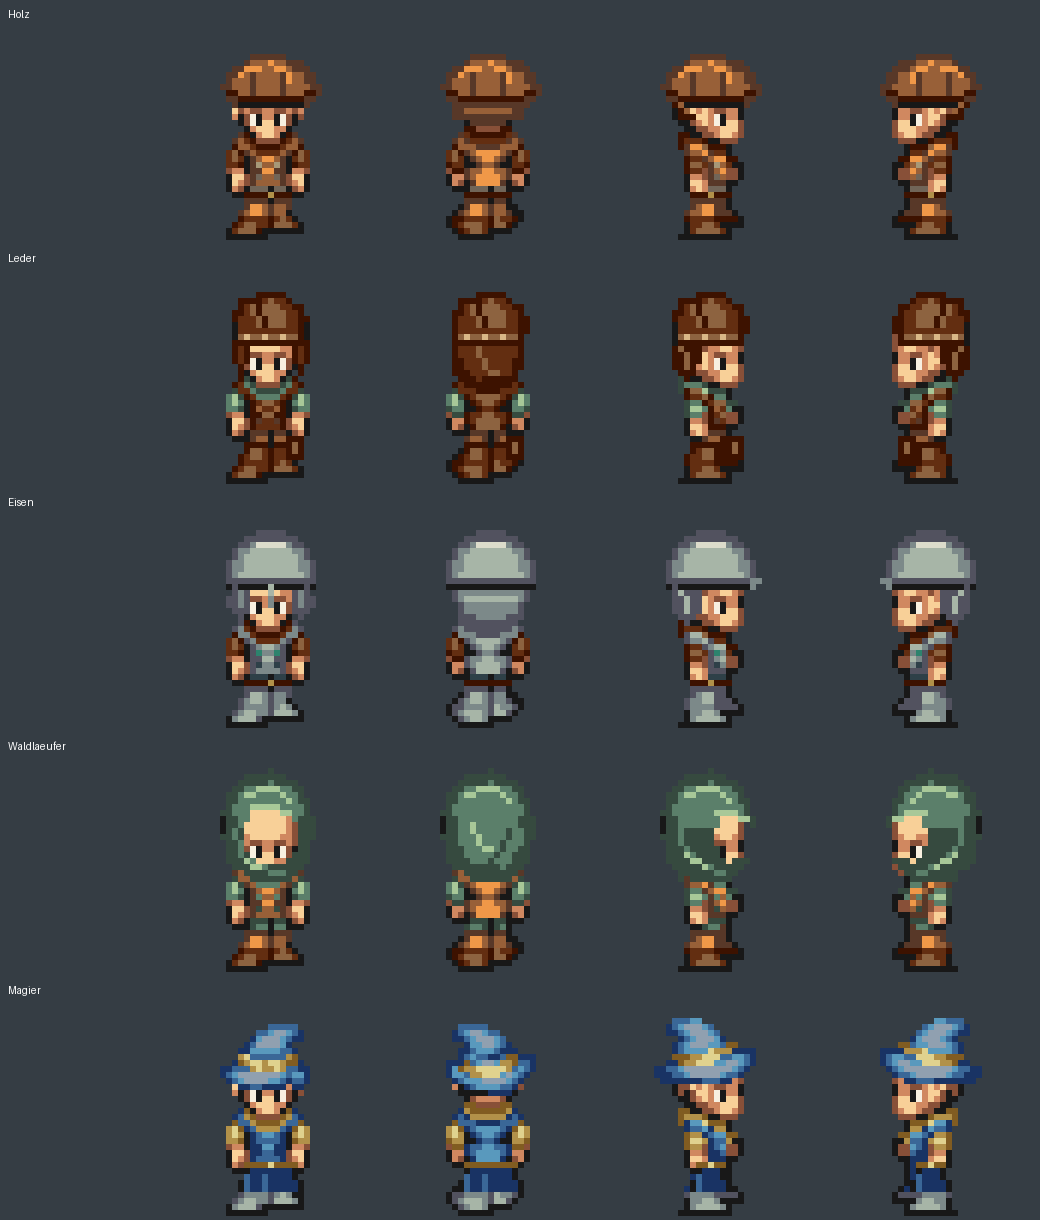
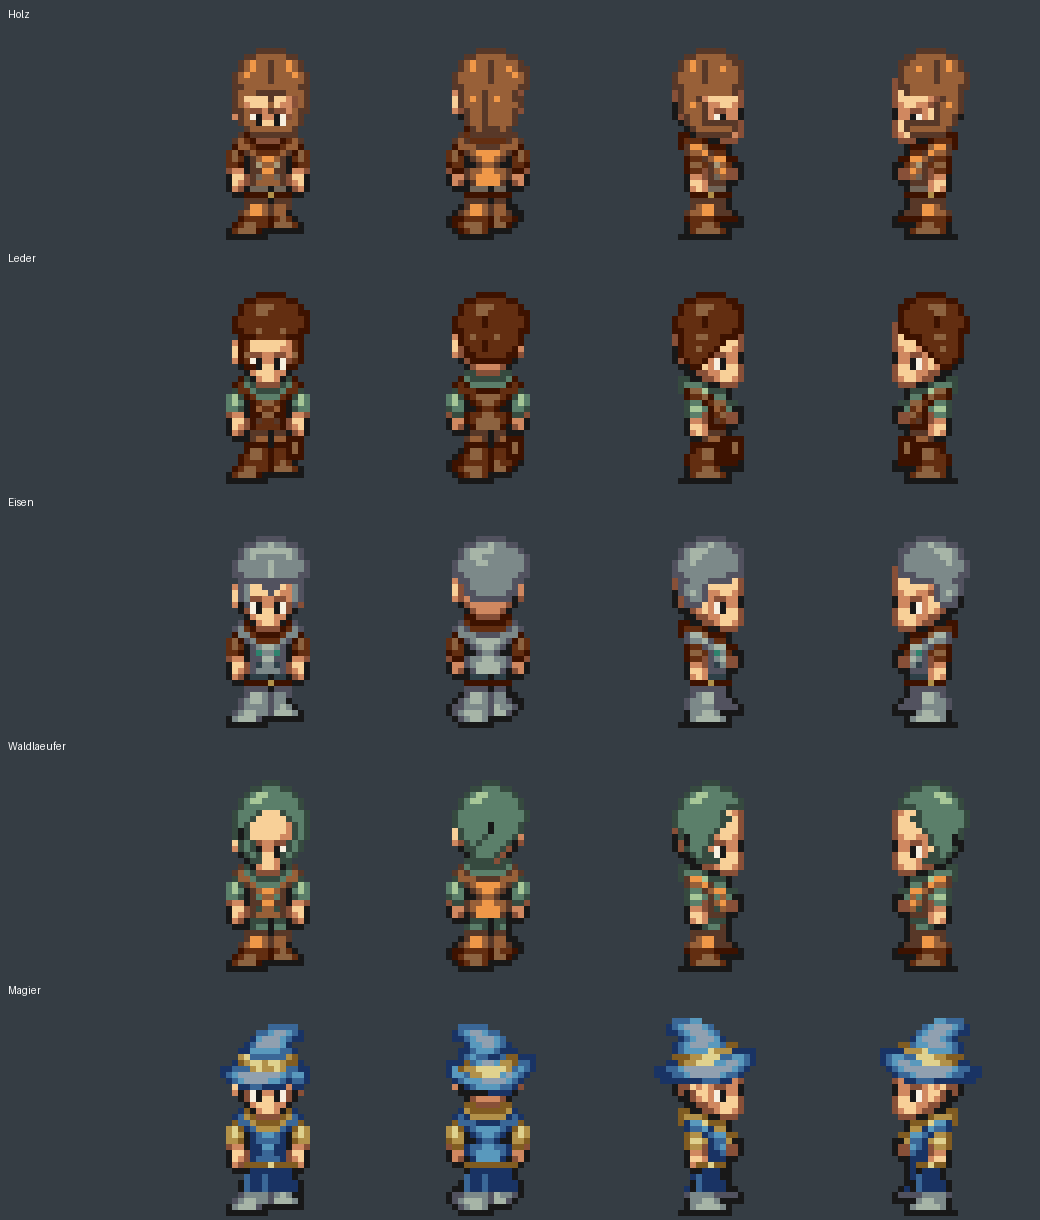
Redraw compact native knight helmets and cloth hood while preserving mage hat

diff --git a/scripts/native_headgear.py b/scripts/native_headgear.py
@@ -81,76 +81,48 @@ def native_form(name,cap,facing):
     if out.getpixel((x,yy))[3]:out.putpixel((x,yy),color)
  return out
 
+# Hand-placed native pixels. Every character below is one production pixel;
+# blanks expose the underlying face. Front, back and profile have separate forms.
+# Crown and light-cluster steps follow the original pfht's 14px head scale.
+FORMS={
+ 'irHl':[
+  ['....sssss....','..ssmmhmmss..','.smhhhhhhmms.','.smhmmmmmhms.','smmmmmhmmmmms','smmmmmhmmmmms','ssmmmmhmmmmss','.sssssssssss.','.sm..sss..ms.','.sm...s...ms.','.sm.......ms.','..s.......s..'],
+  ['....sssss....','..ssmmhmmss..','.smhhhhmmmms.','.smhhmmmmmmms','smmmhhmmmmmms','smmmmmmmmmmms','ssmmmmmmmmmss','.ssmmmmmmmss.','..smmmmmmms..','..ssmmmmmss..','...sssssss...'],
+  ['....sssss....','..ssmmhmmss..','.smhhhmmmmss.','.smhhmmmmmms.','smmhmmmmmmms.','smmmmmmmmmms.','ssmmmmmmmsss.','.ssmmmssss...','.smmms.......','.smhms.......','..smms.......','..sss........']
+ ],
+ 'wdHl':[
+  ['....sssss....','..ssmmmmmss..','.smhmmsmmhms.','.smhmmsmmhms.','smhmmmsmmmhms','smmmmmsmmmmms','ssmmmmmmmmmss','smmmsssssmmms','sm....s....ms','sm....m....ms','ssm...s...mss','.sm.......ms.','.smm.....mms.','..smmmmmmms..','...sssssss...'],
+  ['....sssss....','..ssmmmmmss..','.smhmmsmmmms.','.smhmmsmmhmss','smmmmmsmmmhms','smmmmmsmmmmms','ssmmmmmmmmmss','.smmmsmmmms..','.smhmsmhmmss.','.smmmsmmmmms.','..smmsmmmms..','..smmsmmmms..','..smmsmmmms..','...smsssms...','...sssssss...'],
+  ['....sssss....','..ssmmmmmss..','.smhmsmmmmss.','.smhmsmmhmms.','smmmmsmmmmms.','smmmmsmmmmms.','ssmmmmmmmmss.','.smmmmmmmms..','.smms........','.smhms.......','.smmms.......','..smms.......','..smmssssss..','...smmmmmms..','....ssssss...']
+ ],
+ 'leHl':[
+  ['....sssss....','..ssmmmmmss..','.smmhhhmmmms.','.smmhhmmmmmss','smmmmmmmmmmms','smmmmmmmmmmms','ssmmhmmmhmmss','.sssmmmmmsss.','.sm.......ms.','.sm.......ms.','.sh.......hs.','.sm.......ms.','..ss.....ss..'],
+  ['....sssss....','..ssmmmmmss..','.smmhhhmmmms.','.smmhhmmmmmss','smmmmsmmmmmms','smmmmsmmmmmms','ssmmmmmmmmmss','.smhmmmhmmms.','.smmmsmmmmms.','..smmsmmmms..','..ssmmmmmss..','...sssssss...'],
+  ['....sssss....','..ssmmmmmss..','.smmhhhmmmss.','.smmhhmmmmms.','smmmmsmmmmms.','smmmmsmmmmms.','ssmmmmmmmmss.','.smmhhmmsss..','.smmmmmms....','.smmhmms.....','.smmmms......','..smms.......','...ss........']
+ ],
+ 'hood':[
+  ['.....sss.....','...ssmmmss...','..smhhmmmms..','.smhhmmmmmms.','.smmmmmmmmms.','smmms...smmms','smms.....smms','sms.......sms','sms.......sms','sms.......sms','.sms.....sms.','.sms.....sms.','..sms...sms..','...ss...ss...'],
+  ['.....sss.....','...ssmmmss...','..smhhmmmms..','.smhhmmmmmms.','.smmmmmmmmms.','smmmmmmmmmmms','smmmmmmmmmmms','smmmmmmmmmms.','.smmmmsmmmms.','.smmmsmmmms..','..smsmmmms...','..ssmmmms....','...smmms.....','....sss......'],
+  ['.....sss.....','...ssmmmss...','..smhhmmmms..','.smhhmmmmmms.','.smmmmmmmsss.','smmmmmmms....','smmmmmmmss...','smmmmmmms....','.smmmmms.....','.smmmms......','..smmms......','..smms.......','...smss......','....ssss.....']
+ ]}
+
 def tailored_form(name,cap,facing):
- box=cap.getbbox();cx=round((box[0]+box[2]-1)/2);top=box[1]
- out=Image.new('RGBA',(64,64));d=ImageDraw.Draw(out)
- def p(pts,col):d.polygon([(cx+x,top+y) for x,y in pts],fill=col)
- def l(pts,col):d.line([(cx+x,top+y) for x,y in pts],fill=col)
- profile=facing in (2,3)
- if name=='irHl':
-  # A rounded bowl: short one-pixel steps instead of the former pointed ridge.
-  p([(-7,4),(-6,1),(-4,-1),(-2,-2),(2,-2),(4,-1),(6,1),(7,4),(7,7),(-7,7)],STEEL[0])
-  p([(-6,4),(-5,1),(-3,0),(3,0),(5,1),(6,4),(6,5),(-6,5)],STEEL[1])
-  p([(-4,2),(-2,0),(2,0),(4,2),(4,4),(-4,4)],STEEL[2])
-  l([(-2,0),(2,0)],STEEL[3]);l([(-5,5),(5,5)],STEEL[2])
-  l([(-7,7),(7,7)],O)
-  if facing==1:
-   p([(-6,8),(6,8),(5,12),(3,14),(-3,14),(-5,12)],STEEL[0])
-   p([(-5,8),(5,8),(4,11),(2,12),(-2,12),(-4,11)],STEEL[1]);l([(-4,9),(4,9)],STEEL[2])
-  elif profile:
-   p([(-6,7),(-2,8),(-2,11),(-4,13),(-6,11)],STEEL[0]);l([(-5,8),(-4,9),(-4,11)],STEEL[2])
-   l([(6,5),(8,6),(7,7)],STEEL[1])
-  else:
-   for sign in (-1,1):
-    p([(sign*6,7),(sign*4,8),(sign*4,11),(sign*5,12),(sign*7,10)],STEEL[0])
-    l([(sign*5,8),(sign*5,10)],STEEL[1])
-   l([(0,7),(0,10)],STEEL[1]);l([(0,7),(0,8)],STEEL[2])
-   for y in range(64):
-    for off in range(1,10):out.putpixel((cx+off,y),out.getpixel((cx-off,y)))
- elif name=='wdHl':
-  # Shallow segmented shell, with curved bindings; no leather-coif silhouette.
-  p([(-8,5),(-6,2),(-3,0),(2,0),(5,1),(7,3),(8,6),(6,8),(-6,8)],WOOD[0])
-  p([(-6,4),(-3,1),(2,1),(5,3),(6,5),(5,6),(-6,6)],WOOD[1])
-  l([(-5,3),(-3,2),(-2,2)],WOOD[2]);l([(0,1),(2,2),(3,4)],WOOD[2])
-  l([(-3,3),(-3,6)],WOOD[0]);l([(2,3),(2,6)],WOOD[0])
-  l([(-7,6),(-4,7),(4,7),(7,6)],LEATHER[0]);l([(-5,8),(5,8)],O)
-  if facing==1:
-   p([(-6,8),(6,8),(5,10),(2,11),(-3,11),(-6,10)],WOOD[0]);l([(-4,9),(3,9)],WOOD[1])
-  elif profile:
-   l([(-6,8),(-5,10),(-3,10)],LEATHER[0]);l([(-5,8),(-4,9)],WOOD[1])
- elif name=='leHl':
-  # A soft fitted cap with sewn panels and ear guards, not a recolored wood shell.
-  p([(-6,3),(-5,0),(-2,-1),(2,-1),(5,1),(6,4),(5,7),(-6,7)],LEATHER[0])
-  p([(-5,3),(-4,1),(-2,0),(2,0),(4,2),(4,5),(-5,5)],LEATHER[1])
-  p([(-3,1),(0,0),(2,2),(2,4),(-2,4)],LEATHER[2])
-  l([(-2,0),(-2,2),(-1,4)],LEATHER[0]);l([(-5,6),(4,6)],LEATHER[2])
-  for x in (-4,-1,2):l([(x,6),(x,6)],LEATHER[3])
-  if facing==1:
-   p([(-6,7),(5,7),(5,11),(3,14),(-3,14),(-6,12)],LEATHER[0])
-   p([(-5,8),(4,8),(3,12),(-2,13),(-4,11)],LEATHER[1]);l([(-2,8),(-1,11),(1,12)],LEATHER[2])
-  elif profile:
-   p([(-6,6),(-2,7),(-2,10),(-4,13),(-6,11)],LEATHER[0]);l([(-5,8),(-4,10),(-4,11)],LEATHER[2]);l([(-6,4),(-6,7)],O)
-  else:
-   for sign in (-1,1):
-    p([(sign*6,6),(sign*4,7),(sign*4,10),(sign*5,12),(sign*6,10)],LEATHER[0]);l([(sign*5,8),(sign*5,10)],LEATHER[1])
-   l([(-6,4),(-6,6)],O);l([(6,4),(6,6)],O)
- elif name=='hood':
-  # Cloth overhang with an open face and a loose rear fold.
-  p([(-8,5),(-7,1),(-4,-2),(0,-3),(4,-1),(6,2),(7,6),(6,12),(3,15),(-3,15),(-7,12)],GREEN[0])
-  p([(-6,3),(-4,0),(0,-1),(3,0),(5,3),(4,6),(-5,6)],GREEN[1])
-  l([(-4,1),(-1,0),(1,0),(3,2)],GREEN[2]);l([(-8,5),(-8,7)],O)
-  if facing==1:
-   p([(-5,5),(4,4),(5,9),(2,13),(-3,12),(-5,9)],GREEN[1]);l([(-3,6),(-2,9),(1,11)],GREEN[2]);l([(3,7),(2,10),(0,12)],GREEN[0])
-  elif profile:
-   p([(2,4),(6,5),(7,7),(6,11),(3,12),(1,9)],(0,0,0,0))
-   l([(1,4),(4,4),(6,5)],GREEN[2]);l([(-5,5),(-5,9),(-2,12),(2,14)],GREEN[1]);l([(-4,11),(-1,13)],GREEN[2])
-  else:
-   p([(-3,4),(2,4),(4,6),(4,10),(2,12),(-2,12),(-4,10),(-4,7)],(0,0,0,0))
-   l([(-3,3),(1,3),(3,4)],GREEN[2]);l([(-6,7),(-5,11),(-2,13),(2,14)],GREEN[1]);l([(-4,12),(-2,13)],GREEN[2])
- if facing==3:
-  mirrored=Image.new('RGBA',(64,64))
+ box=cap.getbbox();cx=round((box[0]+box[2]-1)/2);top=box[1]-1
+ palette={'irHl':{'s':STEEL[0],'m':STEEL[1],'h':STEEL[2]},
+          'wdHl':{'s':WOOD[0],'m':WOOD[1],'h':WOOD[2]},
+          'leHl':{'s':LEATHER[0],'m':LEATHER[1],'h':LEATHER[2]},
+          'hood':{'s':GREEN[0],'m':GREEN[1],'h':GREEN[2]}}[name]
+ out=Image.new('RGBA',(64,64));rows=FORMS[name][min(facing,2)]
+ for y,row in enumerate(rows):
+  assert len(row)==13,(name,facing,y,len(row))
+  for x,key in enumerate(row):
+   if key!='.':out.putpixel((cx+(6-x if facing==3 else x-6),top+y),palette[key])
+ # Keep the deepest recesses dark, not a heavy enclosing black outline.
+ if name=='hood':
+  for x,y in ([(0,7),(0,8)] if facing==1 else [(-5,8),(-5,9)] if facing==0 else [(-4,9),(-4,10)]):
+   xx=cx+(-x if facing==3 else x)
+   if out.getpixel((xx,top+y))[3]:out.putpixel((xx,top+y),O)
+ if name=='irHl' and facing==0:
   for y in range(64):
-   for x in range(64):
-    if 0<=2*cx-x<64:mirrored.putpixel((2*cx-x,y),out.getpixel((x,y)))
-  return mirrored
+   for off in range(1,7):out.putpixel((cx+off,y),out.getpixel((cx-off,y)))
  return out

diff --git a/scripts/verify_headgear.py b/scripts/verify_headgear.py
@@ -26,6 +26,7 @@ for page in ('p1','pONE2','pONE3','pBOW','pCAST'):
     assert actual.tobytes()==headgear(n,cap,r%4).tobytes(),(page,n,r,c,'wrong head frame')
     assert set(actual.getchannel('A').get_flattened_data())<={0,255}
     assert {px[:3] for px in actual.get_flattened_data() if px[3]}<=allowed,(page,n,'foreign palette')
+    if n=='irHl':assert b[2]-b[0]<=13,(page,r,c,'iron helmet too wide')
     if n=='irHl' and r%4==0:
      for yy in range(64):
       for off in range(1,10):assert actual.getpixel((cx-off,yy))==actual.getpixel((cx+off,yy)),(page,r,c,'asymmetric iron front')

diff --git a/art/HEADGEAR_REDESIGN.md b/art/HEADGEAR_REDESIGN.md
@@ -47,3 +47,15 @@ Eisen hat eine abgerundete Schale mit kurzen Pixelstufen und symmetrischen Front
 Beim freigegebenen Magierhut bleibt die Form erhalten: Nur der goldene Bogen der Vorderansicht wird innerhalb seines bisherigen Bereichs nach unten gewölbt. Die anderen drei Ansichten und der Alphakanal bleiben unverändert.
 
 Alle fünf Animationsseiten und die passenden Inventarsymbole werden aus derselben Kopfverankerung erzeugt. Die Prüfung kontrolliert zusätzlich die pixelgenaue RGB- und Alpha-Symmetrie aller Eisen-Frontframes. Vergleichsbilder sind Kompositionen der Produktionssprites; ein Gerätetest steht noch aus.
+
+## Engere native Ritterformen und neue Kapuze
+
+Die nächste Fassung ersetzt die Polygonflächen durch bewusst gesetzte Pixelreihen: 13 Pixel breite Helme, ein Pixel breite Kanten, kleine zusammenhängende Lichtflächen und getrennte Front-, Rücken- und Profilformen. Grundlage bleiben die 14 Pixel breite originale `pfht`-Kopfbedeckung sowie die Materialtrennung der Rüstungsanalyse.
+
+- Eisen: von 15/17 auf höchstens 13 native Pixel Breite reduziert, ohne ausgestellten Rand; gerundete Schale, kurze Wangenplatten und schmaler Nasenschutz.
+- Holz: segmentierter Ritterhelm mit Nasen-, Wangen- und unterem Gesichtsschutz sowie längerem Nackenschutz. Er unterscheidet sich auch in der Silhouette von Eisen und Leder.
+- Leder: gerundete offene Ritterhaube mit breiteren seitlichen Schutzflächen; keine seitlich herausstehende Zacke oder schiefe Kronenspitze.
+- Kapuze: vollständig neu gesetzte, kompakte Stoffform mit engerem Scheitel, offenem Gesicht und eigenem rückwärtigem Faltenverlauf; kein großer geschlossener Ring um das Gesicht.
+- Magierhut: alle fünf Blätter und das Inventarsymbol bleiben bytegenau erhalten.
+
+Die automatische Prüfung begrenzt jetzt zusätzlich die Eisenhelmbreite auf 13 Pixel. Kopfverankerung, alle fünf Animationsseiten, Originalpalette, Symmetrie der Eisenfront und unterschiedliche Silhouetten bleiben geprüft. Die Vergleichstafel zeigt Produktionssprites; ein Gerätetest steht weiter aus.
